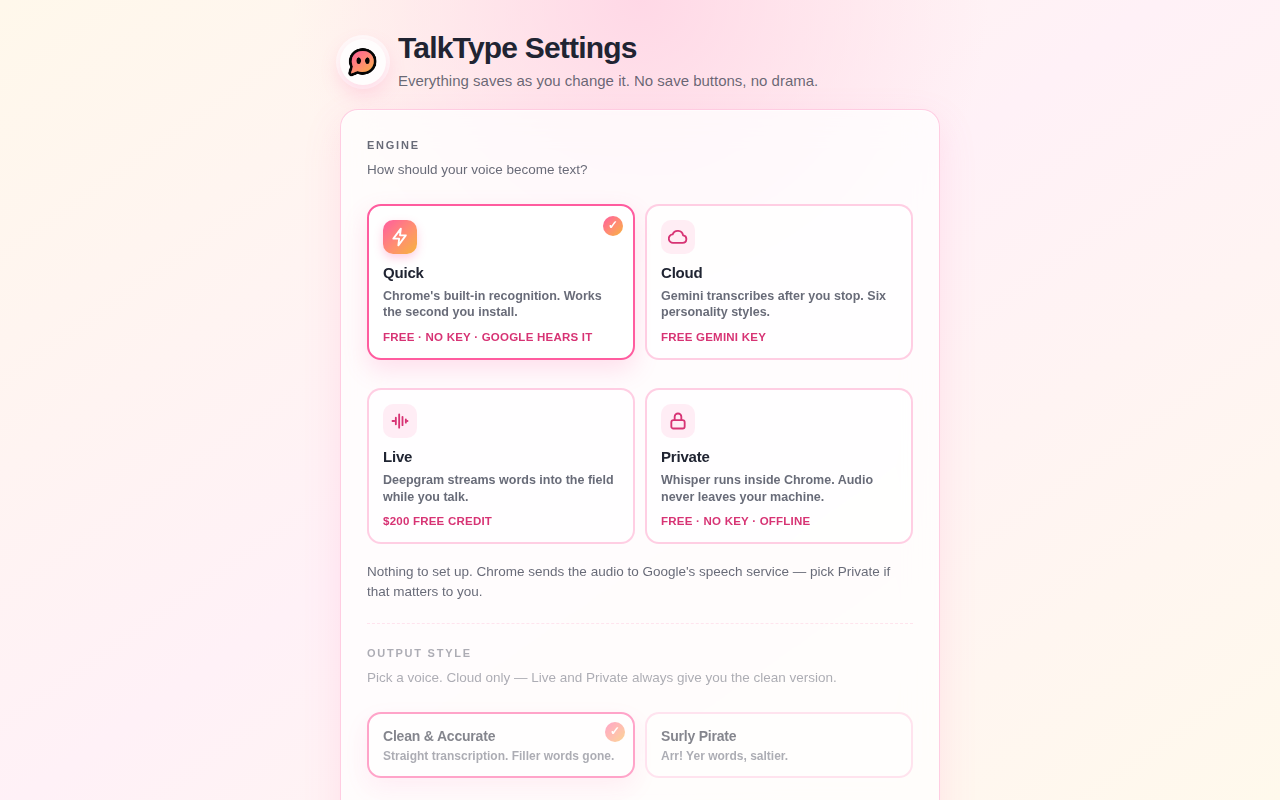
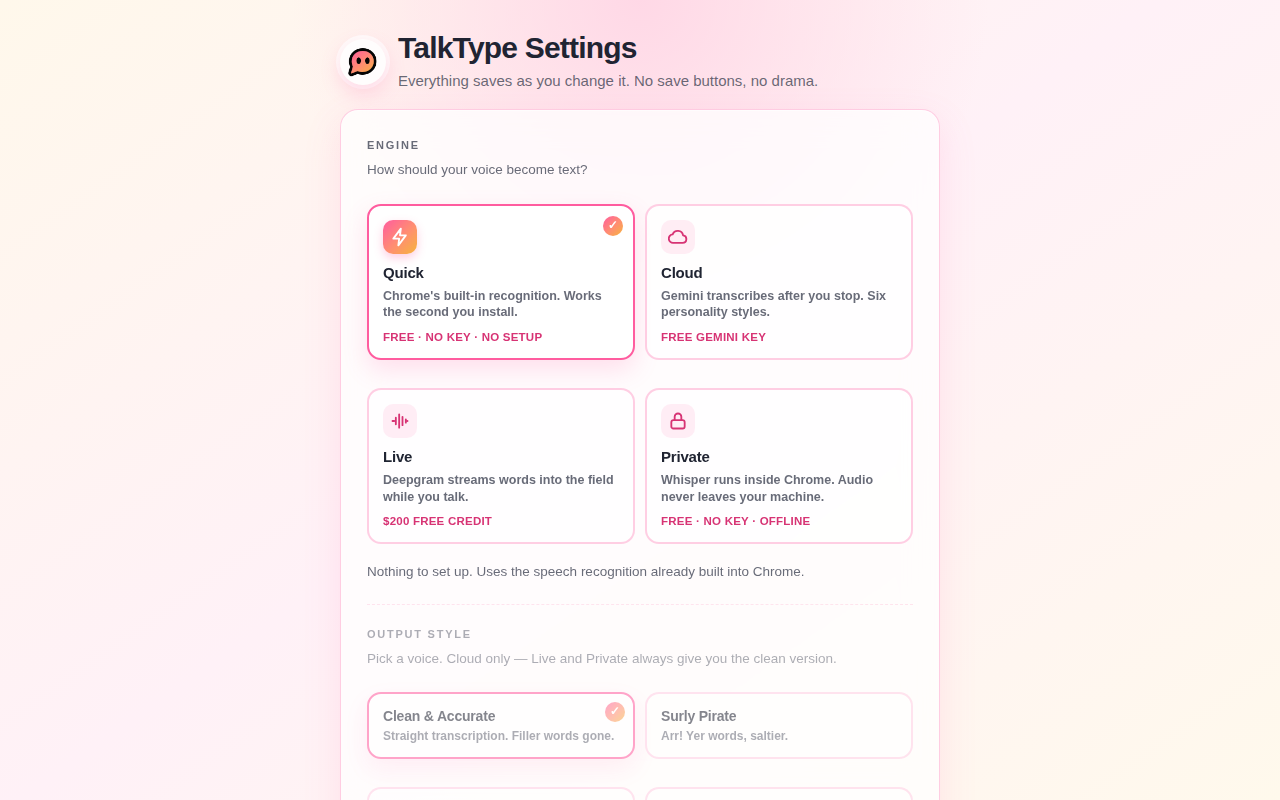
copy: ✂ Quick tile stops apologising — Private already says what it needs to
Claude-Session: https://claude.ai/code/session_019wLFHxVW1tuRojMYzmUkSE

diff --git a/src/setup-shared.js b/src/setup-shared.js
@@ -23,10 +23,10 @@
       emoji: 'quick',
       name: 'Quick',
       blurb: "Chrome's built-in recognition. Works the second you install.",
-      cost: hasBuiltInRecognition ? 'Free · no key · Google hears it' : 'Not in this browser',
+      cost: hasBuiltInRecognition ? 'Free · no key · no setup' : 'Not in this browser',
       available: hasBuiltInRecognition,
       keyLabel: null,
-      note: "Nothing to set up. Chrome sends the audio to Google's speech service — pick Private if that matters to you."
+      note: 'Nothing to set up. Uses the speech recognition already built into Chrome.'
     },
     {
       id: 'cloud',

diff --git a/CHROME_WEB_STORE.md b/CHROME_WEB_STORE.md
@@ -26,7 +26,7 @@ The zip contains only `src/` (manifest at the root of the zip, as the store requ
 TalkType puts a tiny mic next to every text box on the web. Click it, say your thing, and the words land right where your cursor is. Gmail, Slack, Notion, Discord, Reddit, ChatGPT, forms, comment boxes — anything you can type in, you can talk into.
 
 FOUR WAYS TO TRANSCRIBE — YOU PICK
-⚡ Quick — Chrome's built-in recognition. Zero setup, works the moment you install. (Chrome sends audio to Google.)
+⚡ Quick — Chrome's built-in recognition. Zero setup, works the moment you install.
 ☁ Cloud — Google Gemini transcribes after you stop, with six personality styles (Clean & Accurate, Surly Pirate, L33t Sp34k, Sparkle Pop, Code Whisperer, Quill & Ink). Uses your own free Gemini API key.
 ⚡ Live — Deepgram streams your words into the field while you talk. Uses your own Deepgram key (signup includes ~$200 of free credit).
 🔒 Private — a Whisper model runs inside Chrome. One-time model download, then your voice never leaves your machine. No key, no internet needed.

diff --git a/README.md b/README.md
@@ -10,7 +10,7 @@ TalkType is a Chrome extension that drops a mic button next to every text field 
 
 | Engine | What happens | What it costs you |
 |---|---|---|
-| ⚡ **Quick** | Chrome's built-in recognition. Zero setup, the install default. Chrome sends audio to Google. | Nothing |
+| ⚡ **Quick** | Chrome's built-in recognition. Zero setup, the install default. | Nothing |
 | ☁ **Cloud** | Gemini transcribes after you stop. Six personality styles. | A free Gemini API key |
 | ⚡ **Live** | Deepgram streams words into the field while you talk. | A Deepgram key (signup comes with ~$200 credit, roughly 400 hours) |
 | 🔒 **Private** | Whisper runs inside Chrome. Audio never leaves your machine. | Nothing. One ~96MB model download, then fully offline. |
